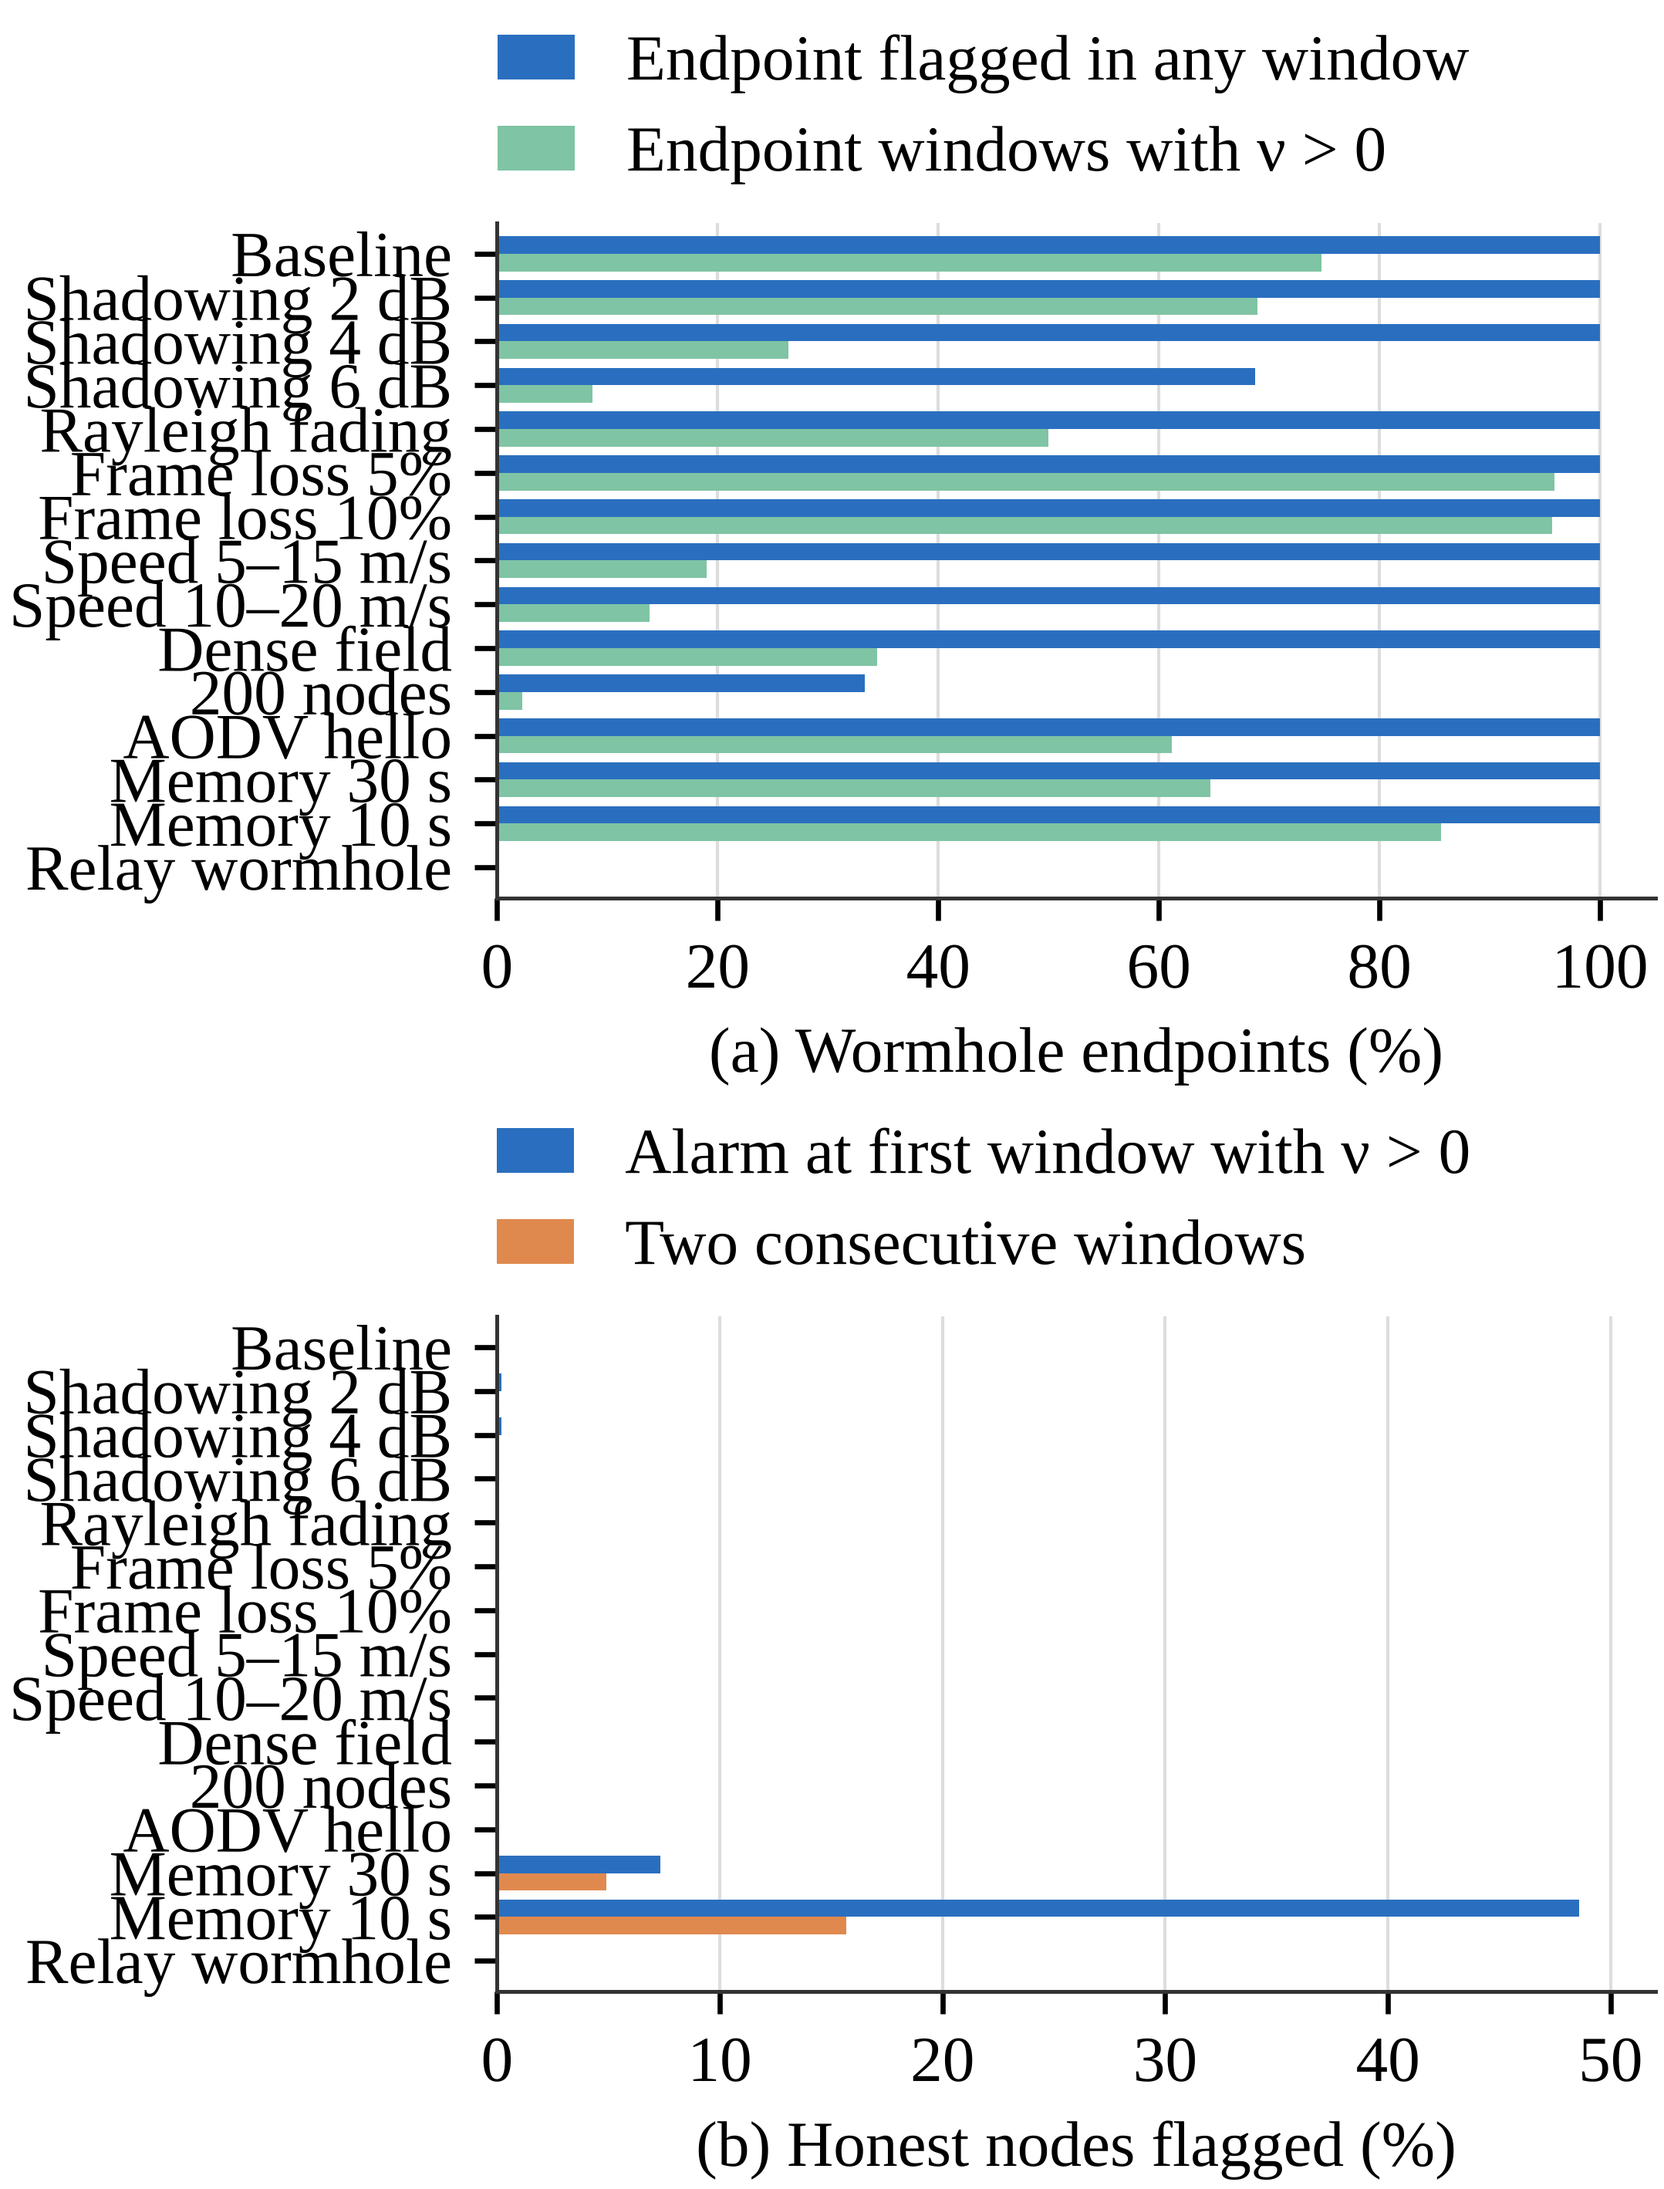
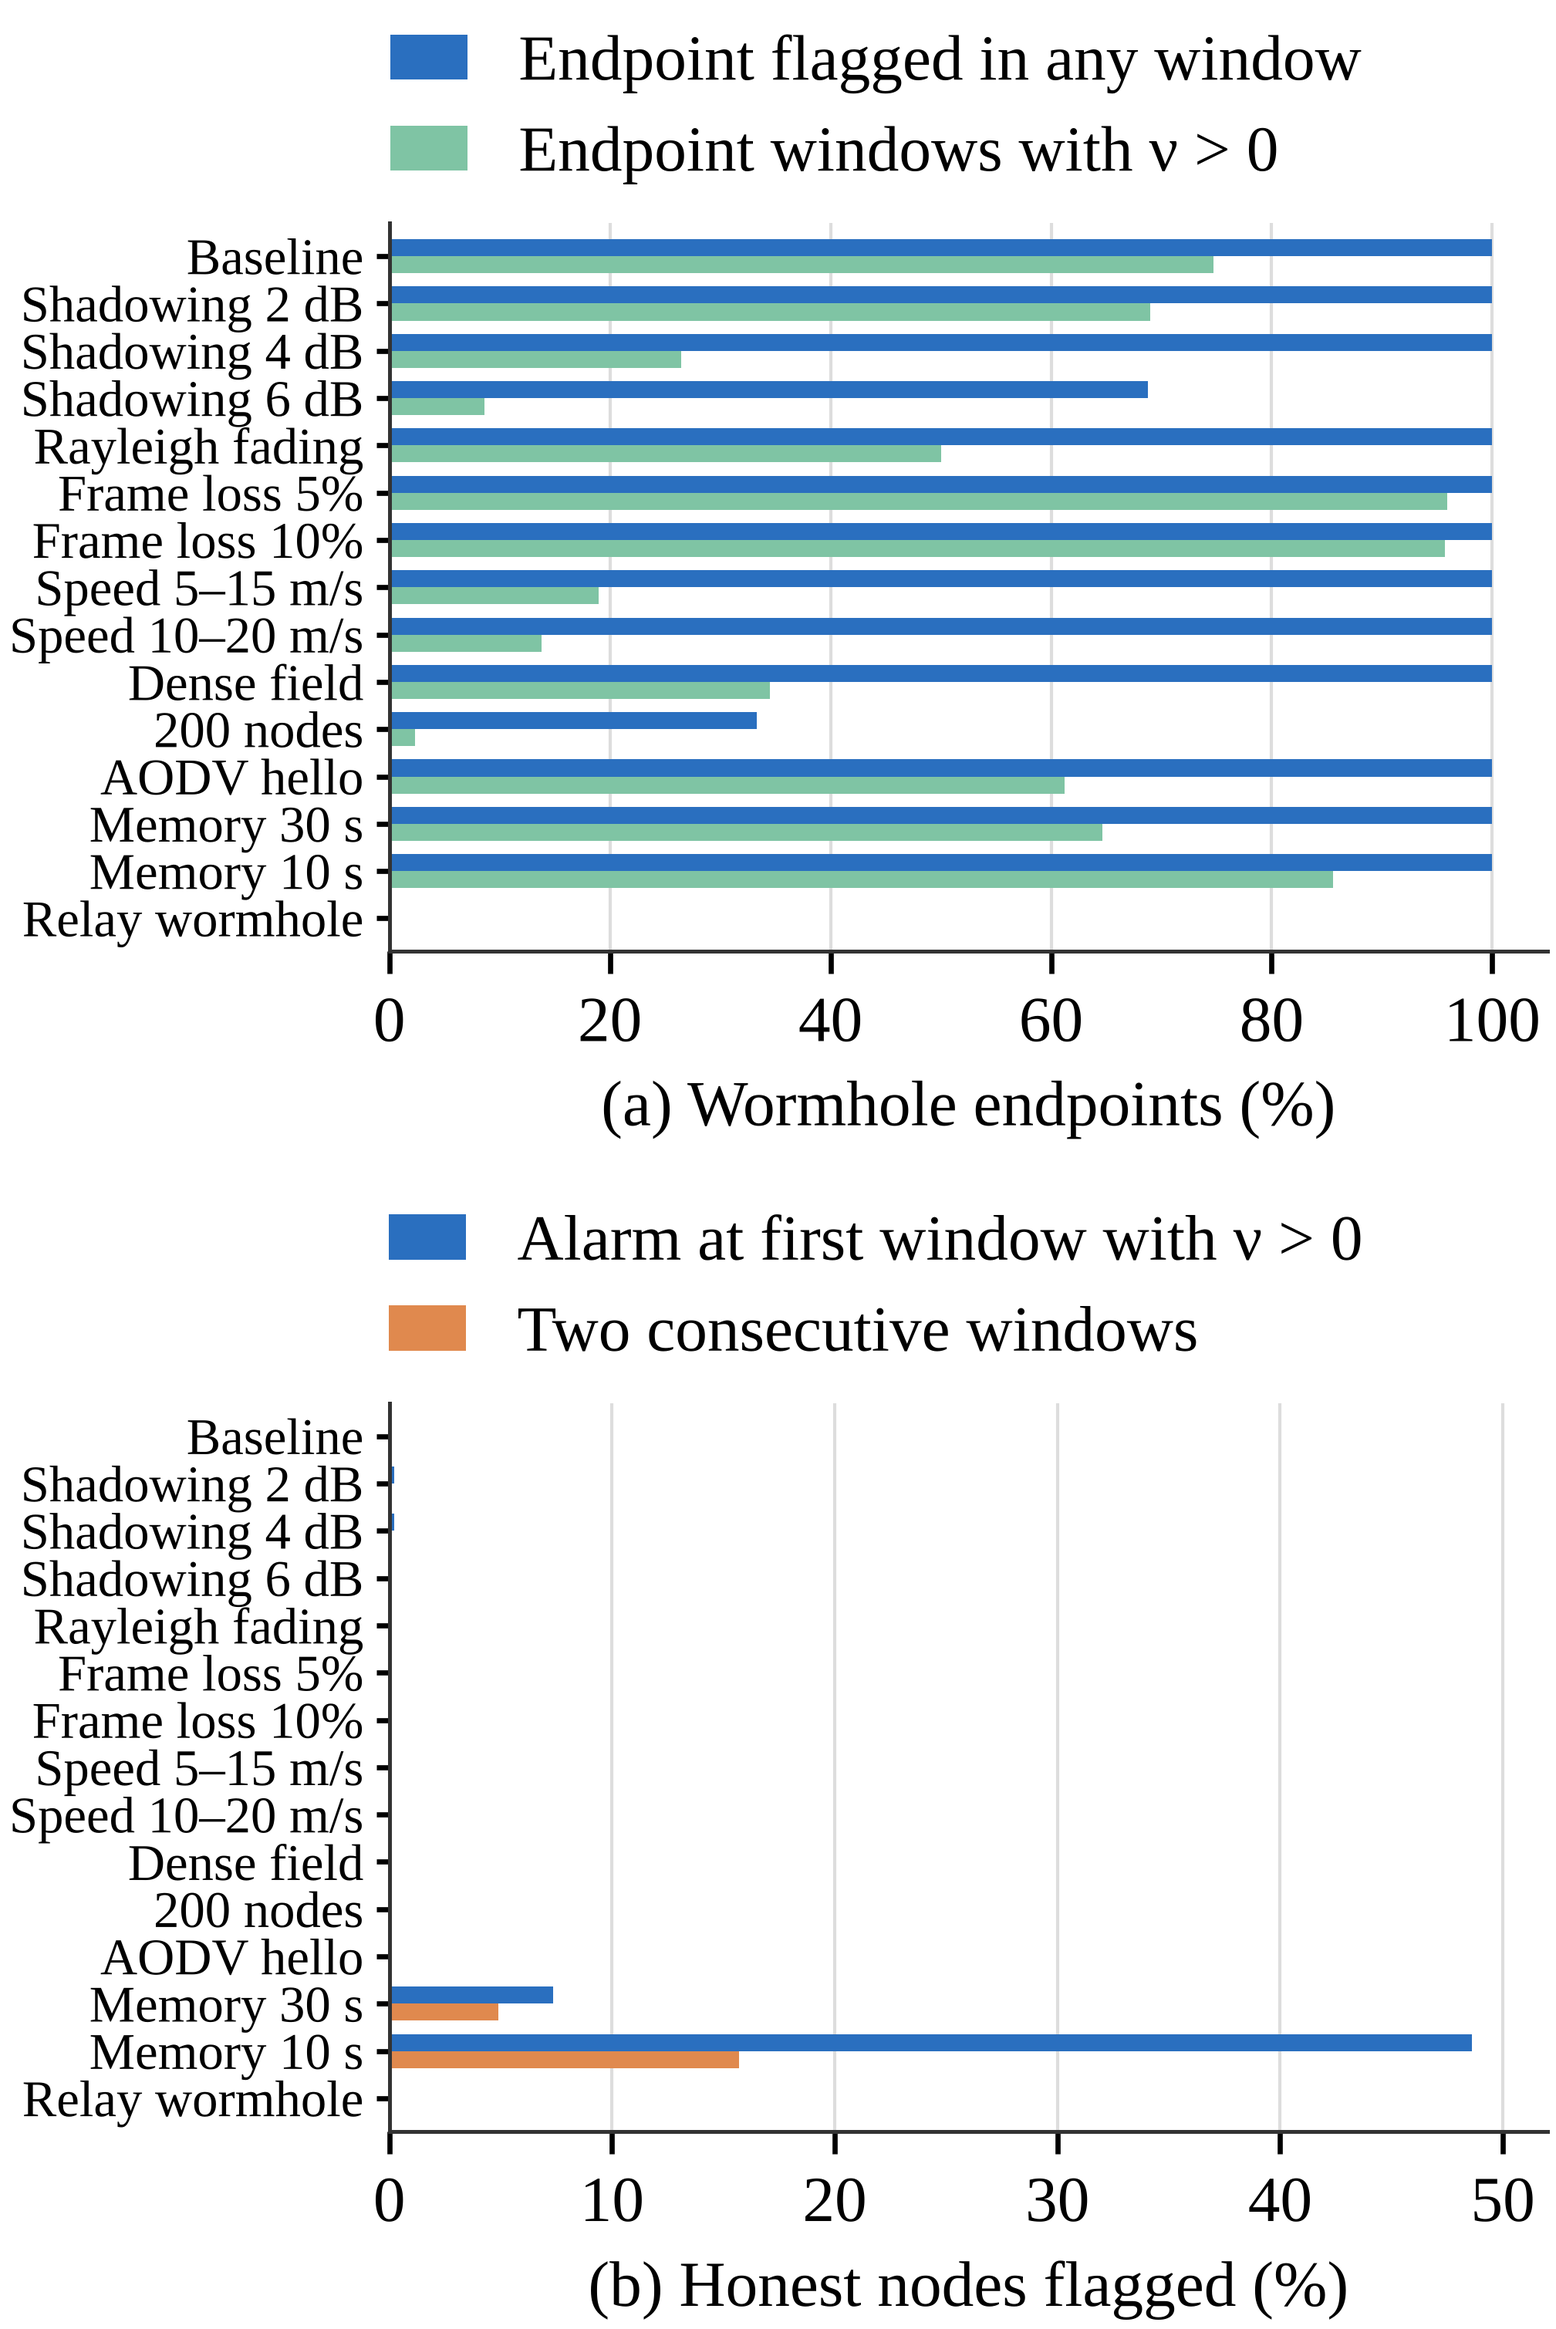
IJIES Fig. 2: smaller condition labels, more row spacing
Claude-Session: https://claude.ai/code/session_016JP1MSkrhoLUHdTuTRgid2

Changed region(s): [[0.0, 0.0, 0.9995, 1.0]]

diff --git a/analysis/make_ijies_figures.py b/analysis/make_ijies_figures.py
@@ -1,4 +1,4 @@
-"""Figures of the IJIES manuscript: 10 pt Times-metric text, 600 dpi, one IJIES column wide.
+"""Figures of the IJIES manuscript, 600 dpi, one IJIES column wide.
 
     python3 analysis/make_ijies_figures.py   # writes figures/ijies/fig1_protocol and fig2_robustness
 """
@@ -45,8 +45,8 @@ d = pd.read_csv(os.path.join(R, "nu_robustness.csv")).set_index("condition")
 missing = [c for c in d.index if c not in LBL]; assert not missing, missing
 d = d.loc[[c for c in LBL if c in d.index]]
 LBL = {k: v.replace(" per cent", "%").replace("-", "–") for k, v in LBL.items()}
-y = np.arange(len(d))[::-1]; h = 0.4
-fig, (a1, a2) = plt.subplots(2, 1, figsize=(8.2 * CM, 12.6 * CM), gridspec_kw=dict(hspace=0.62))
+y = np.arange(len(d))[::-1]; h = 0.36
+fig, (a1, a2) = plt.subplots(2, 1, figsize=(8.2 * CM, 13.6 * CM), gridspec_kw=dict(hspace=0.62))
 a1.barh(y + h / 2, 100 * d.tpr_node, h, color="#2a6fbf", label="Endpoint flagged in any window")
 a1.barh(y - h / 2, 100 * d.tpr_win, h, color="#7fc4a4", label="Endpoint windows with \u03bd > 0")
 a1.set_xlim(0, 105); a1.set_xlabel("(a) Wormhole endpoints (%)")
@@ -56,5 +56,6 @@ a2.set_xlim(0, 52); a2.set_xlabel("(b) Honest nodes flagged (%)")
 for ax in (a1, a2):
     ax.spines[["top", "right"]].set_visible(False); ax.xaxis.grid(True, color="#dddddd", lw=0.5); ax.set_axisbelow(True)
     ax.legend(frameon=False, loc="lower center", bbox_to_anchor=(0.42, 1.0), ncol=1, handlelength=1.2, borderaxespad=0.2)
-    ax.set_yticks(y); ax.set_yticklabels([LBL[c] for c in d.index]); ax.set_ylim(-0.7, len(d) - 0.3)
+    ax.set_yticks(y); ax.set_yticklabels([LBL[c] for c in d.index], fontsize=8); ax.set_ylim(-0.7, len(d) - 0.3)
+    ax.tick_params(axis="y", length=2, pad=2)
 save(fig, "fig2_robustness")
